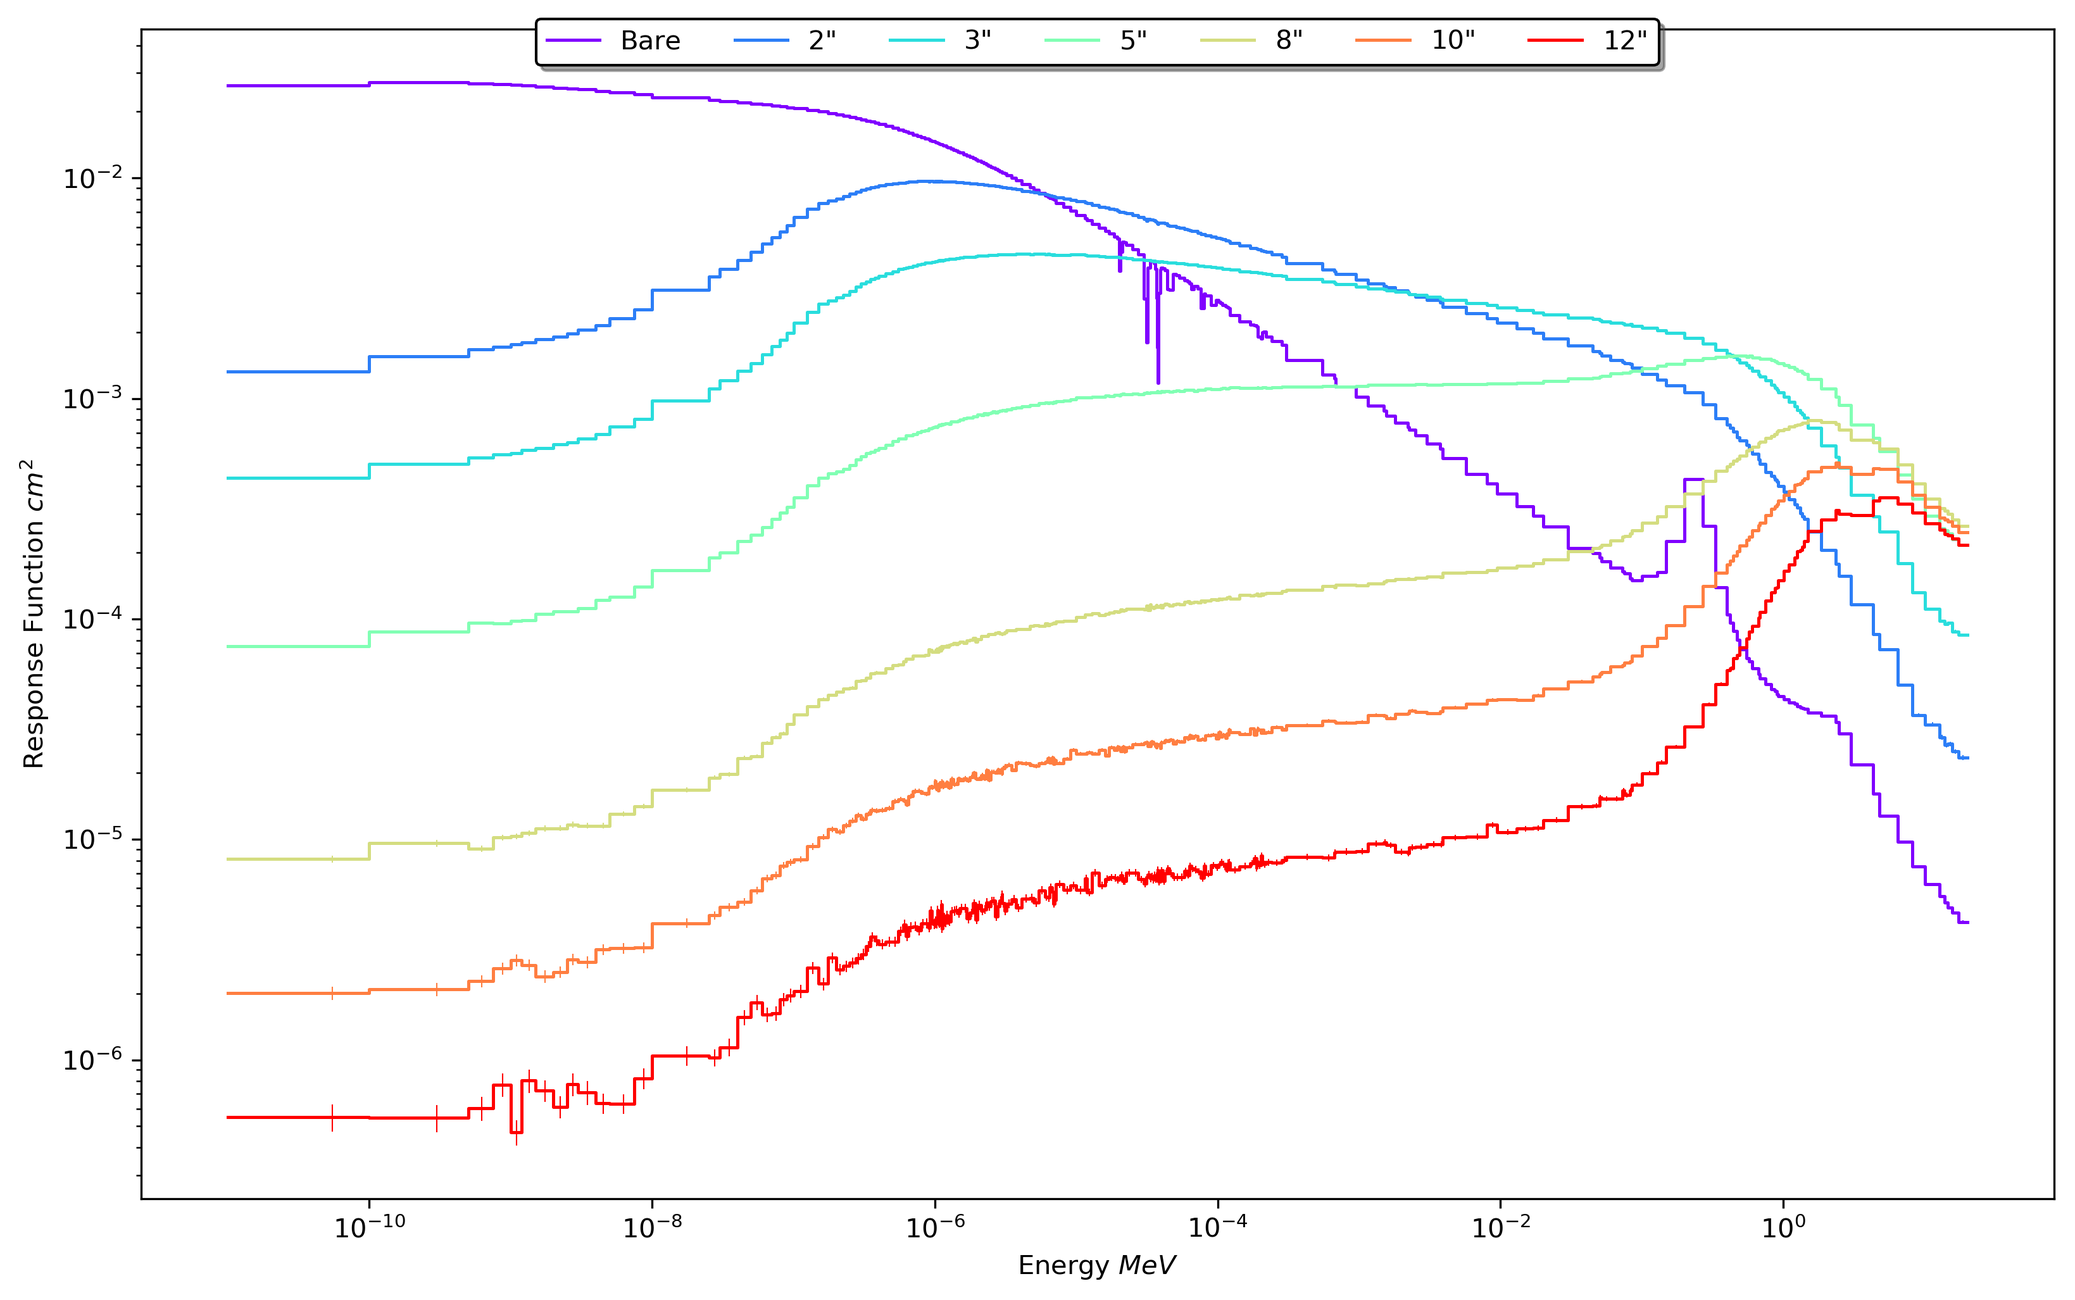
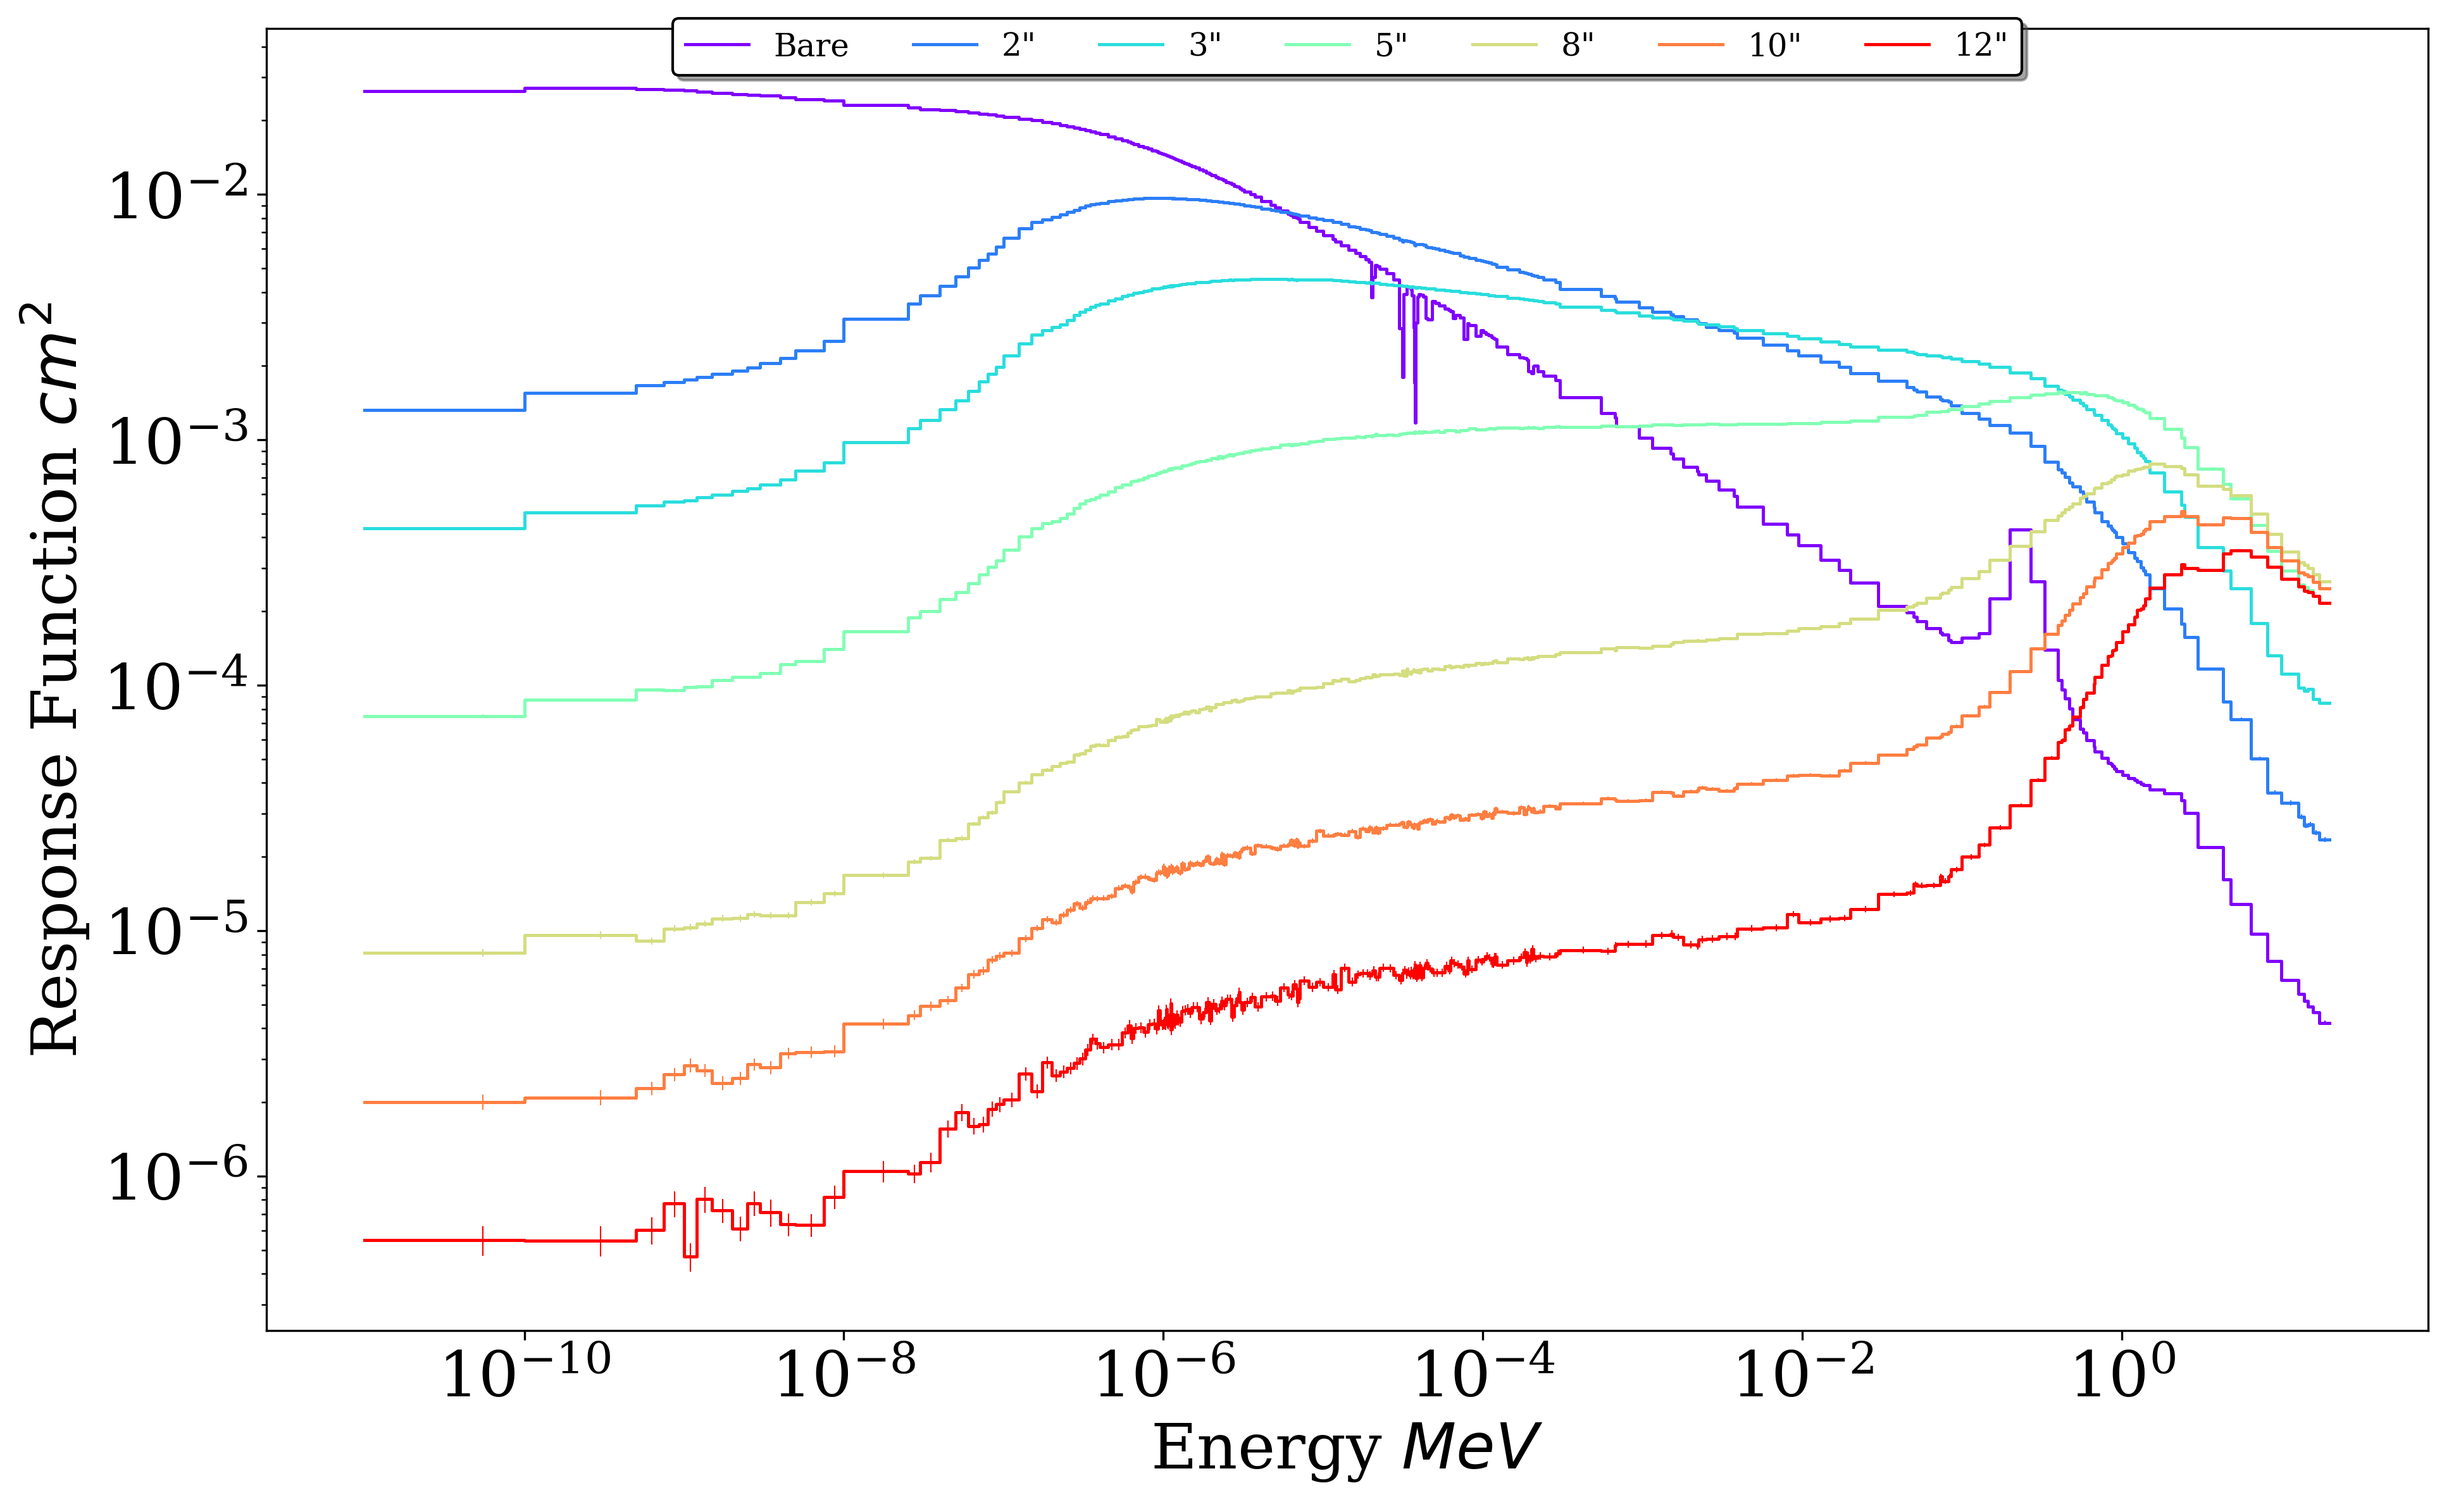
bigger font in images; added errors to responses

diff --git a/tex/chapters/chapter4.tex b/tex/chapters/chapter4.tex
@@ -187,7 +187,7 @@ The foils were moved to an individual counting station, where they were sequenti
 \caption{The masses of the gold foils.}
 \begin{tabular}{ r | r | l }
 \toprule
-Foil ID  & Position (in.)     &   Foil Mass (g)\\
+Foil ID  & Position (in.)     &   Foil Mass (g) $\pm$ 0.1 mg\\
 2 & 0 & 0.0320\\
 13 & 1 & 0.0312\\
 4 & 2 & 0.0320\\
@@ -308,15 +308,15 @@ The data for $P_{f}(t)$ is simply normalized strip chart data collected from an 
 \begin{tabular}{ r | r | r | l | r }
 \toprule
 Position (in.)  & $A_{meas}$ (Bq) & $R_{meas}$  & $R_{sat}$   &   $A_{sat}$  (Bq)\\
-0 & 1483.73 & 1.00089 & 0.02268 & 65468.28 \\
-1 & 58.60 & 1.00590 & 0.02262 &  2605.89  \\
-2 & 8.92 & 1.03805 & 0.02196 &   422.02  \\
-3 & 4.06 & 1.06581 & 0.0204  &   212.01  \\
-4 & 2.58 & 1.14023 & 0.01574  &   186.96  \\
-5 & 1.60 & 1.27976 & 0.01340 &      153.12  \\
-6 & 0.72 & 1.26894 & 0.00794 &       115.22  \\
-7 & 0.37 & 1.27340 & 0.00483 &      97.03   \\
-8 & 0.17 & 1.41587 & 0.00256 &       95.65\\
+0 & 1483.73 $\pm$ 5.03\% & 1.00089 & 0.02268 & 65468.28 \\
+1 & 58.60 $\pm$ 5.11\% & 1.00590 & 0.02262 &  2605.89  \\
+2 & 8.92 $\pm$ 5.18\% & 1.03805 & 0.02196 &   422.02  \\
+3 & 4.06 $\pm$ 5.32\% & 1.06581 & 0.0204  &   212.01  \\
+4 & 2.58 $\pm$ 5.17\% & 1.14023 & 0.01574  &   186.96  \\
+5 & 1.60 $\pm$ 5.63\% & 1.27976 & 0.01340 &      153.12  \\
+6 & 0.72 $\pm$ 7.03\% & 1.26894 & 0.00794 &       115.22  \\
+7 & 0.37 $\pm$ 6.78\% & 1.27340 & 0.00483 &      97.03   \\
+8 & 0.17 $\pm$ 9.35\% & 1.41587 & 0.00256 &       95.65\\
 \end{tabular}
 \end{table}
 
@@ -363,13 +363,13 @@ c(E) = A e^{-BE} + C \frac{1}{\sqrt{2 \pi D^2}} e^{-(E - F)^2 / 2 D^2}
 \begin{tabular}{ r | r }
 \toprule
 Sphere (in.)  & Count Rate $s^{-1}$\\
-Bare & 1626.76\\
-2  & 1062.40\\
-3 & 3891.13\\
-5 & 417.24\\
-8 & 139.72\\
-10 & 70.75\\
-12 & 37.43\\
+Bare & 1626.76 $\pm$ 2.33\\
+2  & 1062.40 $\pm$ 1.88\\
+3 & 3891.13 $\pm$ 1.72\\
+5 & 417.24 $\pm$ 1.18\\
+8 & 139.72 $\pm$ 0.68\\
+10 & 70.75 $\pm$ 0.49\\
+12 & 37.43 $\pm$ 0.25\\
 \end{tabular}
 \end{table}
 
